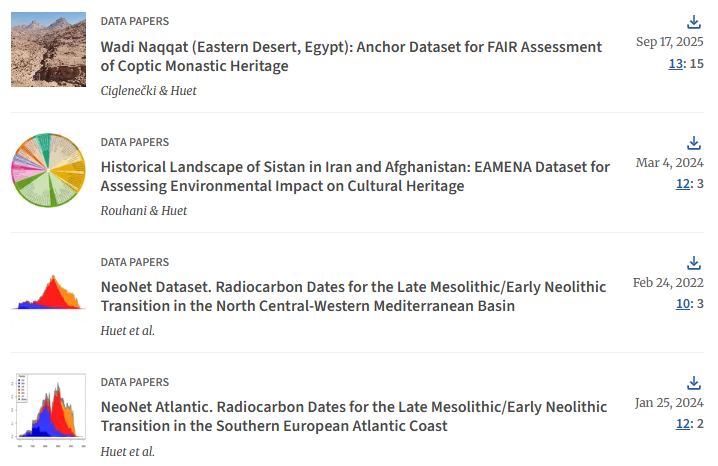
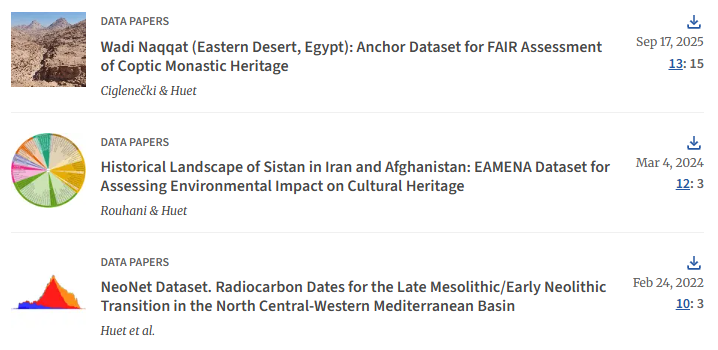
new images

diff --git a/talks/2026-dypac/pres/index.html b/talks/2026-dypac/pres/index.html
@@ -484,7 +484,6 @@ if objet["materiau"] == "bronze":
 </section>
 <section id="articles-de-données-et-nanopublications" class="slide level2">
 <h2>Articles de données et nanopublications</h2>
-<p><br></p>
 <table style="width: 100%; table-layout: fixed; border-collapse: collapse; font-size: 30px; text-align: center;">
 <colgroup>
 <col style="width: 30%;">
@@ -519,7 +518,7 @@ Piliers de la Science ouverte
 <div class="columns">
 <div class="column" style="width:60%;">
 <center>
-<p><img src="https://raw.githubusercontent.com/iramat/iramat-dev/master/talks/2026-dypac/img/joad_huet.jpg" style="height: 200px;vertical-align: middle;"></p>
+<p><img src="https://raw.githubusercontent.com/iramat/iramat-dev/master/talks/2026-dypac/img/joad_huet.png" style="height: 300px;vertical-align: middle;"></p>
 </center>
 </div><div class="column" style="width:40%;">
 <p>Ipsum</p>
